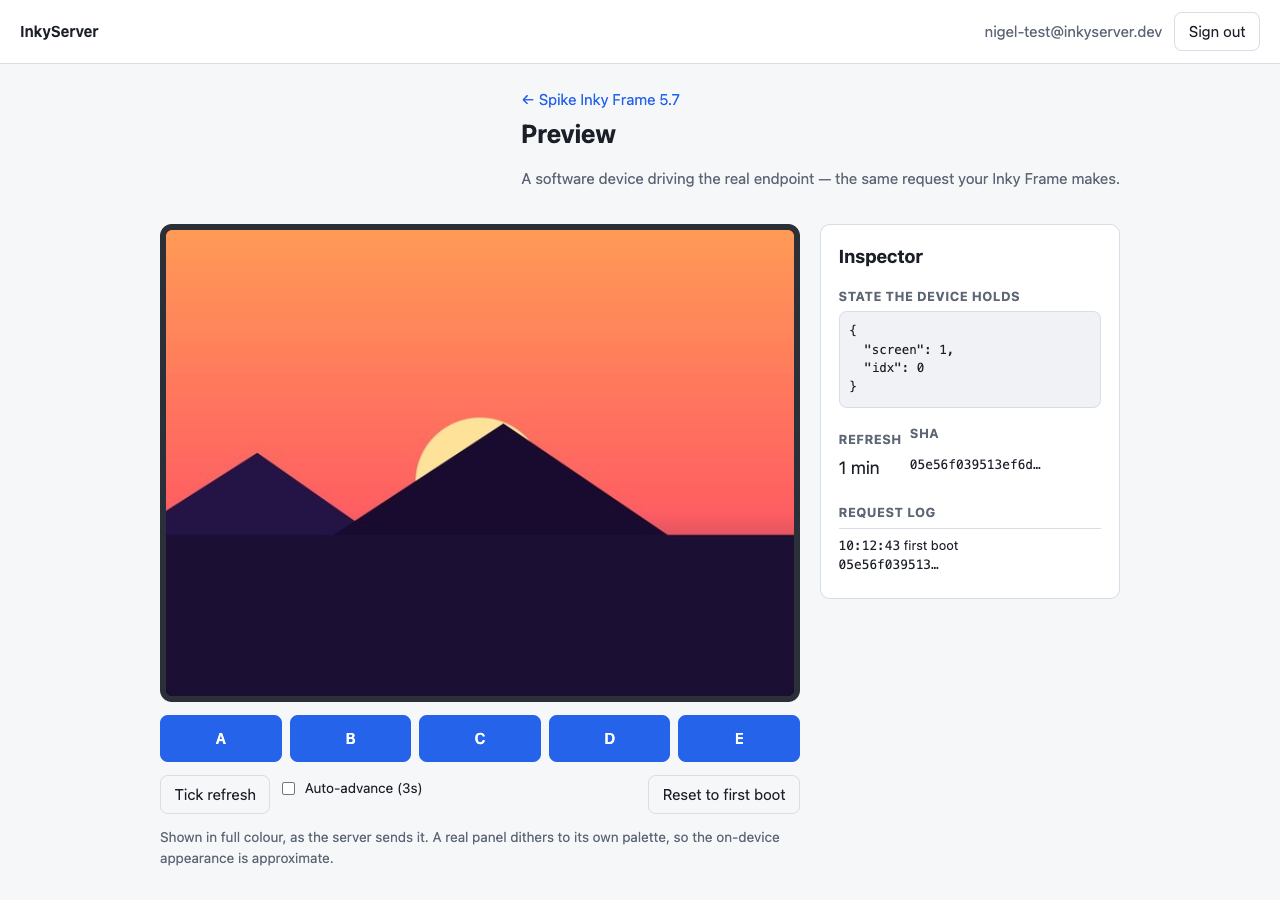
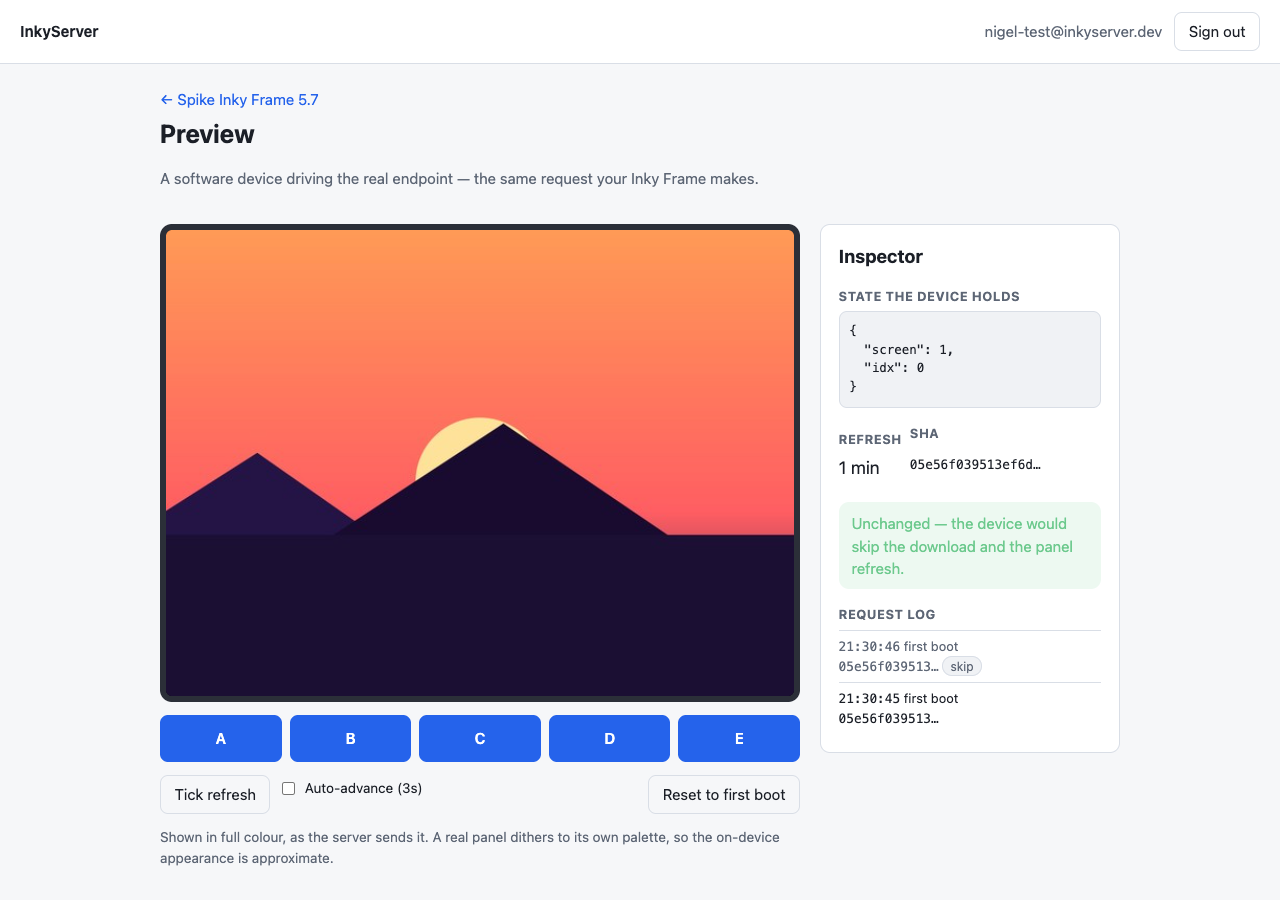
Left-align the Preview page heading
.page-head used `> :last-child { margin-left: auto }` to push a trailing action
button to the right. Preview's head has only one child, so the heading block was
itself :last-child and the auto margin shunted the back link, title and
description to the right edge.

Scoped the rule with :not(:only-child) so it applies only when there is a second
element to push away from. Devices and Device keep their right-aligned actions.

Claude-Session: https://claude.ai/code/session_01URs2b9GBUj8t3CSXkLbNvv

diff --git a/web/src/styles.css b/web/src/styles.css
@@ -66,7 +66,10 @@ code, pre, .mono { font-family: ui-monospace, SFMono-Regular, Menlo, monospace; 
 .brand { font-weight: 650; text-decoration: none; color: var(--text); }
 .page { max-width: 1000px; margin: 0 auto; padding: 1.5rem 1.25rem 4rem; }
 .page-head { display: flex; align-items: flex-start; gap: 1rem; margin-bottom: 1.25rem; }
-.page-head > :last-child { margin-left: auto; }
+/* Push a trailing action to the right — but only when there IS one. On a
+   single-child head (Preview) :last-child is also the heading block, and the
+   auto margin would shunt the whole title to the right edge. */
+.page-head > :last-child:not(:only-child) { margin-left: auto; }
 
 .card {
   background: var(--surface); border: 1px solid var(--line);
